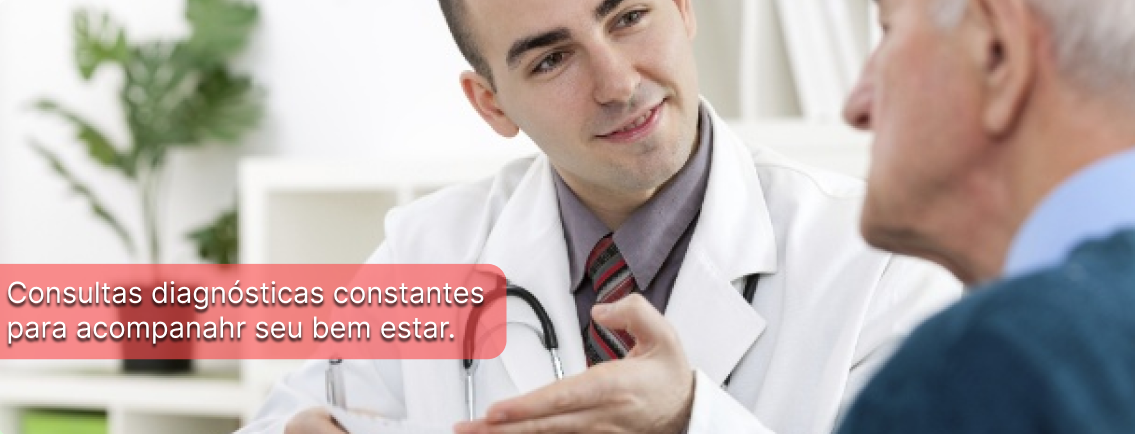
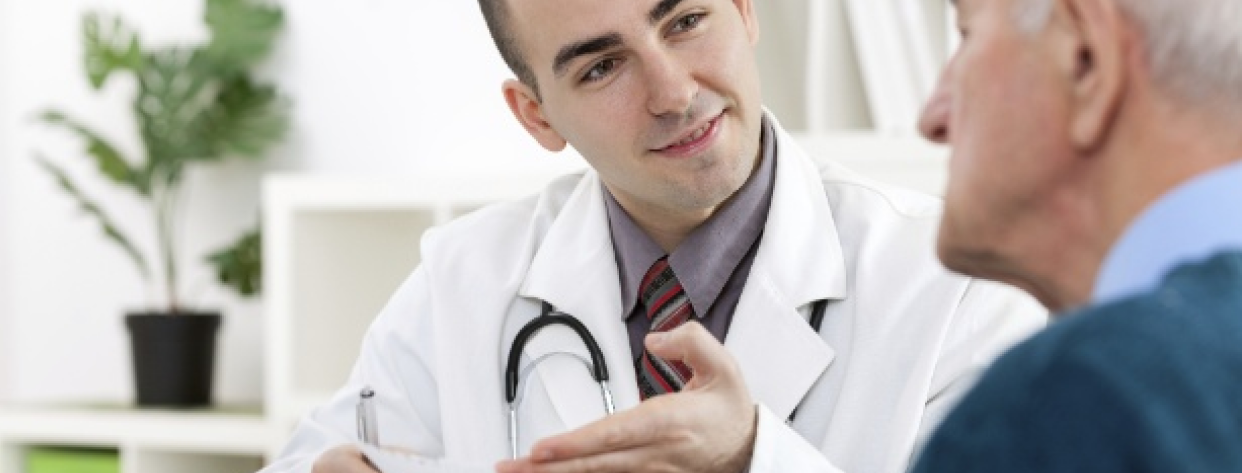
Atualiza css da página principal

diff --git a/src/components/Servico.jsx b/src/components/Servico.jsx
@@ -1,40 +1,56 @@
-import oferecemos from '../images/oferecemos.png'
-import intheforest from '../images/intheforest.png'
-import piscina from '../images/piscina.png'
-import doctor from '../images/doctor.png'
+import oferecemos from '../images/oferecemos.png';
+import intheforest from '../images/intheforest.png';
+import piscina from '../images/piscina.png';
+import doctor from '../images/doctor.png';
+import '../App.css';
 
 function Servicos() {
     return (
         <div className="servicos" id="servicos">
-            <div className="oferecemos">
-                <img src={oferecemos} alt="oferecemos" />
+            <div className='nossosservicos'>
+                <div className="oferecemos">
+                    <img src={oferecemos} alt="oferecemos" />
+                </div>
+
+                <p className="oferecemosp">Encontre o lar adotivo ideal em nossa plataforma, com diversas opções e atividades enriquecedoras, incluindo:</p>
+
+                <div className="fotoservicos">
+                    <div className="foto" id="forest">
+                        <div className="forest-container">
+                            <img src={intheforest} alt="forest" />
+                            <div className="text-container left">
+                                <p>Trilhas guiadas por profissionais experientes e habilitados.</p>
+                            </div>
+                        </div>
+                    </div>
+
+                    <div className="foto" id="piscina">
+                        <div className="piscina-container">
+                            <img src={piscina} alt="piscina" />
+                            <div className="text-container right">
+                                <p>Sessões de fisioterapia aquática em piscinas aquecidas.</p>
+                            </div>
+                        </div>
+                    </div>
+
+                    <div className="foto" id="doctor">
+                        <div className="doctor-container">
+                            <img src={doctor} alt="doctor" />
+                            <div className="text-container doctor">
+                                <p>Consultas diagnósticas constantes para acompanhar seu bem estar.</p>
+                            </div>
+                        </div>
+                    </div>
+                </div>
             </div>
 
-            <p className="oferecemosp">Encontre o lar adotivo ideal em nossa plataforma, com diversas opções e atividades enriquecedoras incluindo:</p>
-
-            <div className="fotoservicos" id="servicos">
-                <div className="foto" id='forest'>
-                    <div className='forest'>
-                        <img src={intheforest} alt="forest" height={632} />
-                    </div>
-                </div>
-
-                <div className="foto" id="piscina">
-                    <div className="piscina">
-                        <img src={piscina} alt="piscina" height={763} />
-                    </div>
-
-                </div>
-
-                <div className="foto" id="doctor">
-                    <div className="doctor">
-                        <img src={doctor} alt="doctor" height={696} />
-                    </div>
-
-                </div>
-
+            <div className="pservicos-container">
+                <p className='pservicos'>
+                    Nosso objetivo é garantir que você encontre um ambiente acolhedor que atenda às suas necessidades e preferências.
+                </p>
             </div>
-        </div>
+    </div>
     );
 }
+
 export default Servicos;

diff --git a/src/App.css b/src/App.css
@@ -17,6 +17,9 @@ html {
   scroll-behavior: smooth;
 }
 
+.lemonada {
+  font-family: 'Lemonada', cursive;
+}
 
 .contato {
   display: flex;
@@ -24,6 +27,12 @@ html {
   display: inline-block;
   margin-left: 30%;
   margin: auto;
+  margin-bottom: 30px;
+}
+
+.h2contato {
+  font-size: 48px;
+  font-weight: bold;
 }
 
 .logo {
@@ -109,6 +118,7 @@ html {
   margin: 10px;
   padding: 10px;
   text-align: center;
+  font-family: 'Lemonada', cursive;
 }
 
 /* .integrantes {
@@ -129,32 +139,94 @@ html {
 } */
 
 .servicos {
-  background-color: #474036;
   padding: 2rem 0;
   color: #ffffff;
-  border-radius: 25px;
   position: relative;
-  margin-top: 2rem;
-  width: 100%; /* Ocupa a largura total do contêiner pai */
+  width: 100%;
 }
 
-.servicos .oferecemos img,
-.servicos .foto img {
-  width: 100%; /* A largura das imagens será igual à largura da div servicos */
-  max-width: 100%; /* Garante que as imagens não excedam a largura da div */
-  margin: 0 auto;
+.servicos .fotoservicos {
+  display: flex;
+  flex-direction: column;
+}
+
+.foto {
+  position: relative;
+  align-items: center;
+  width: 100%;
+}
+
+.forest-container img,
+.piscina-container img,
+.doctor-container img {
+  width: 100%;
   display: block;
 }
 
-.servicos .oferecemosp {
+.text-container {
+  position: absolute;
+  padding: 15px;
+  background-color: rgba(0, 128, 0, 0.6); /* Fundo verde com transparência */
+  color: white;
+  border-radius: 10px;
+  max-width: 450px;
+  font-size: 20px;
+}
+
+.text-container.left {
+  left: 5%;
+  bottom: 10%;
+}
+
+.text-container.right {
+  right: 5%;
+  bottom: 10%;
+  background-color: rgba(0, 122, 128, 0.6); /* Fundo verde com transparência */
+}
+
+.text-container.doctor {
+  left: 5%;
+  bottom: 10%;
+  background-color: rgba(201, 1, 1, 0.6); /* Fundo verde com transparência */
+}
+
+.nossosservicos {
+  background-color: #474036;
+}
+
+.oferecemos img {
+  width: 100%;
+  height: auto;
+}
+
+.oferecemosp {
   font-size: 1.2rem;
   margin: 1rem auto;
-  padding: 0 1rem;
   max-width: 800px;
+  text-align: left;
+  text-decoration: underline;
+  margin-right: 47%;
+}
+
+.pservicos-container {
+  background: linear-gradient(to bottom, #95C88E, #689662); 
+  margin: 0 auto; /* Centraliza o contêiner */
+  max-width: 1200px;
+  padding: 1rem; /* Adiciona um espaçamento interno */
+  border-radius: 10px;
+}
+
+.pservicos {
+  color: #000000;
+  text-align: center;
+  font-family: 'Lemonada', cursive;
 }
 
 .informacoes {
-  border-radius: 5px;
+  border-radius: 20px;
+  background-color: #bbfae3;
+  margin-left: 20px;
+  margin-right: 20px;
 }
 
 .footer {
@@ -165,7 +237,7 @@ html {
   height: auto;
   color: #ffffff;
   font-size: 20px;
-  border-radius: 20px;
+  border-radius: 4px;
 }
 
 

diff --git a/src/components/Contato.jsx b/src/components/Contato.jsx
@@ -5,13 +5,12 @@ function Contato() {
     return (
         <div className="contatoedownload" id="contato">
             <div className="contato">
-                <h2>Contato e Nosso Projeto</h2>
+                <h2 className="h2contato">Contato e Nosso Projeto</h2>
                 <div className="informacoes">
-                    <p>Para obter informações adicionais sobre nossos serviços e produtos, convidamos 
-                    você a entrar em contato com nossa equipe de suporte especializada. Alternativamente, 
-                    você pode simplificar o processo de acesso ao nosso aplicativo móvel escaneando o 
-                    QR code abaixo com a câmera do seu dispositivo. Estamos aqui para auxiliá-lo(a) em 
-                    todas as suas necessidades e garantir uma experiência conveniente e eficiente.</p>
+                    <p className="lemonada">Para obter informações adicionais sobre nossos serviços e produtos, 
+                        convidamos você a entrar em contato com nossa equipe de suporte especializada. 
+                        Alternativamente, você pode simplificar o processo de acesso ao nosso aplicativo através do botão logo em baixo. 
+                        Estamos aqui para auxiliá-lo(a) em todas as suas necessidades e garantir uma experiência conveniente e eficiente.</p>
                 </div>
             </div>
             <Link to="/home">

diff --git a/src/components/Home.jsx b/src/components/Home.jsx
@@ -10,8 +10,10 @@ function Home() {
       <div className="sante" id="sante">
             <div className="sobre">
                 <h1>Quem somos nós?</h1>
+                <div className="lemonada">
                 <p>A Santé é uma ideia realizada por quatro alunos da Escola Sesi, onde tiveram a mesma ideia de criar um site simples e rápido e que pudesse ajudar  outras pessoas. O projeto Santé tem por objetivo tornar a busca por uma casa geriátrica uma tarefa mais fácil, buscando por resultados que busquem conforto conforme o cliente desejar.</p>
                 <p>Santé se refere a saúde em francês, sendo um termo utilizado em clínicas médicas, espero que consigamos atender o seu conforto.</p>
+                </div>
             </div>
             <div className="integrantes">
                 <div className="integrante">

diff --git a/index.html b/index.html
@@ -4,6 +4,9 @@
     <meta charset="UTF-8" />
     <link rel="icon" type="image/svg+xml" href="./src/images/iconsante.png" />
     <meta name="viewport" content="width=device-width, initial-scale=1.0" />
+    <link rel="preconnect" href="https://fonts.googleapis.com">
+    <link rel="preconnect" href="https://fonts.gstatic.com" crossorigin>
+    <link href="https://fonts.googleapis.com/css2?family=Lemonada:wght@300..700&display=swap" rel="stylesheet">
     <title>Santé</title>
   </head>
   <body>
